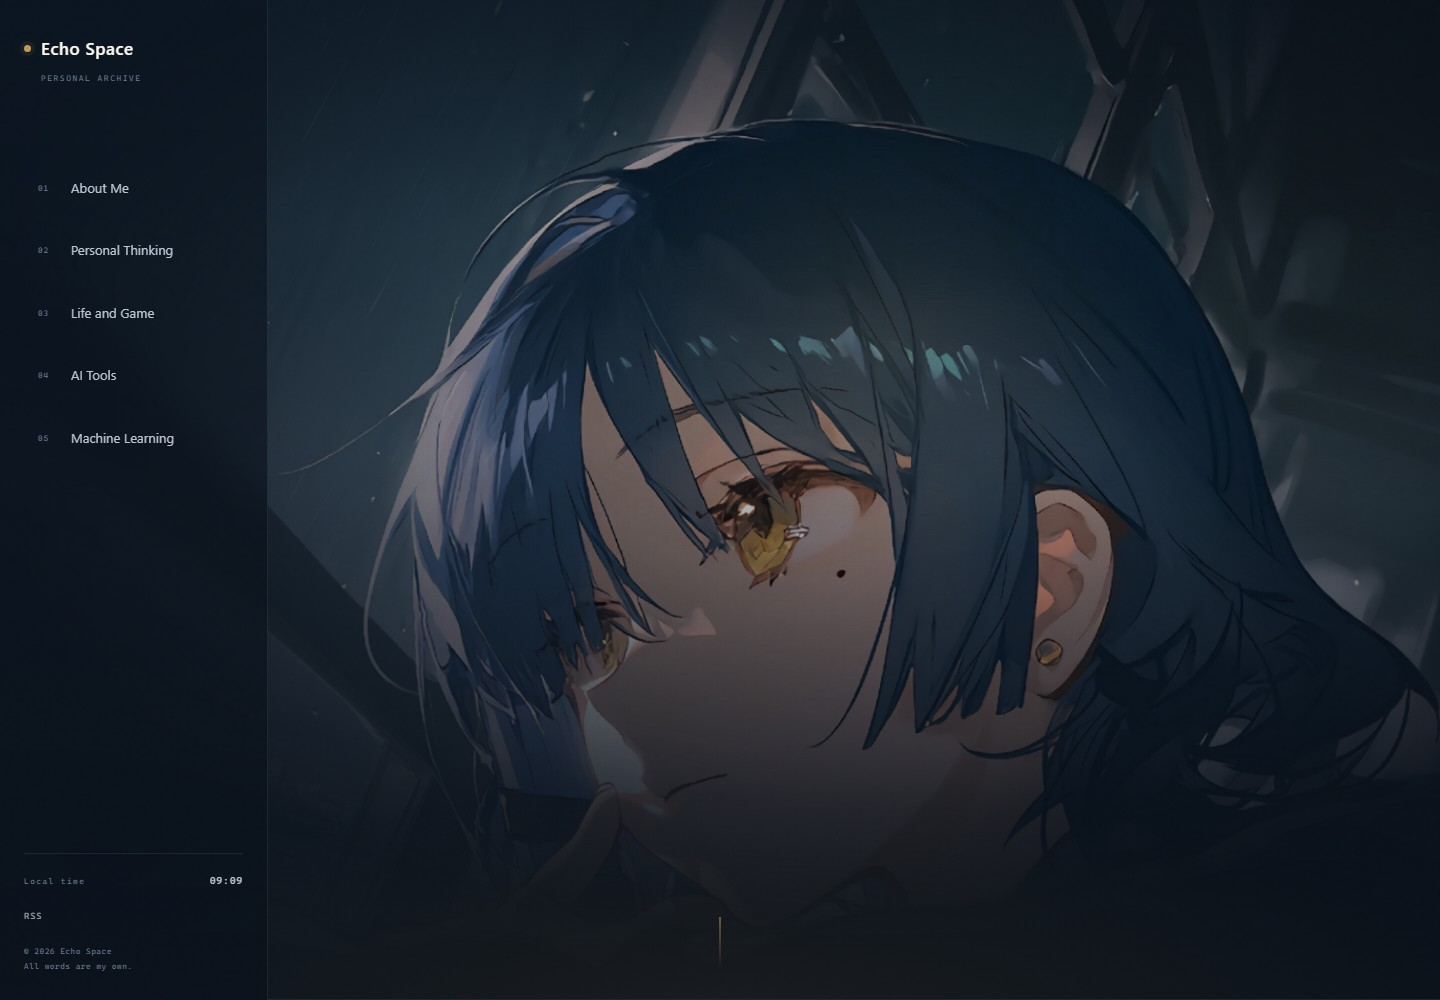
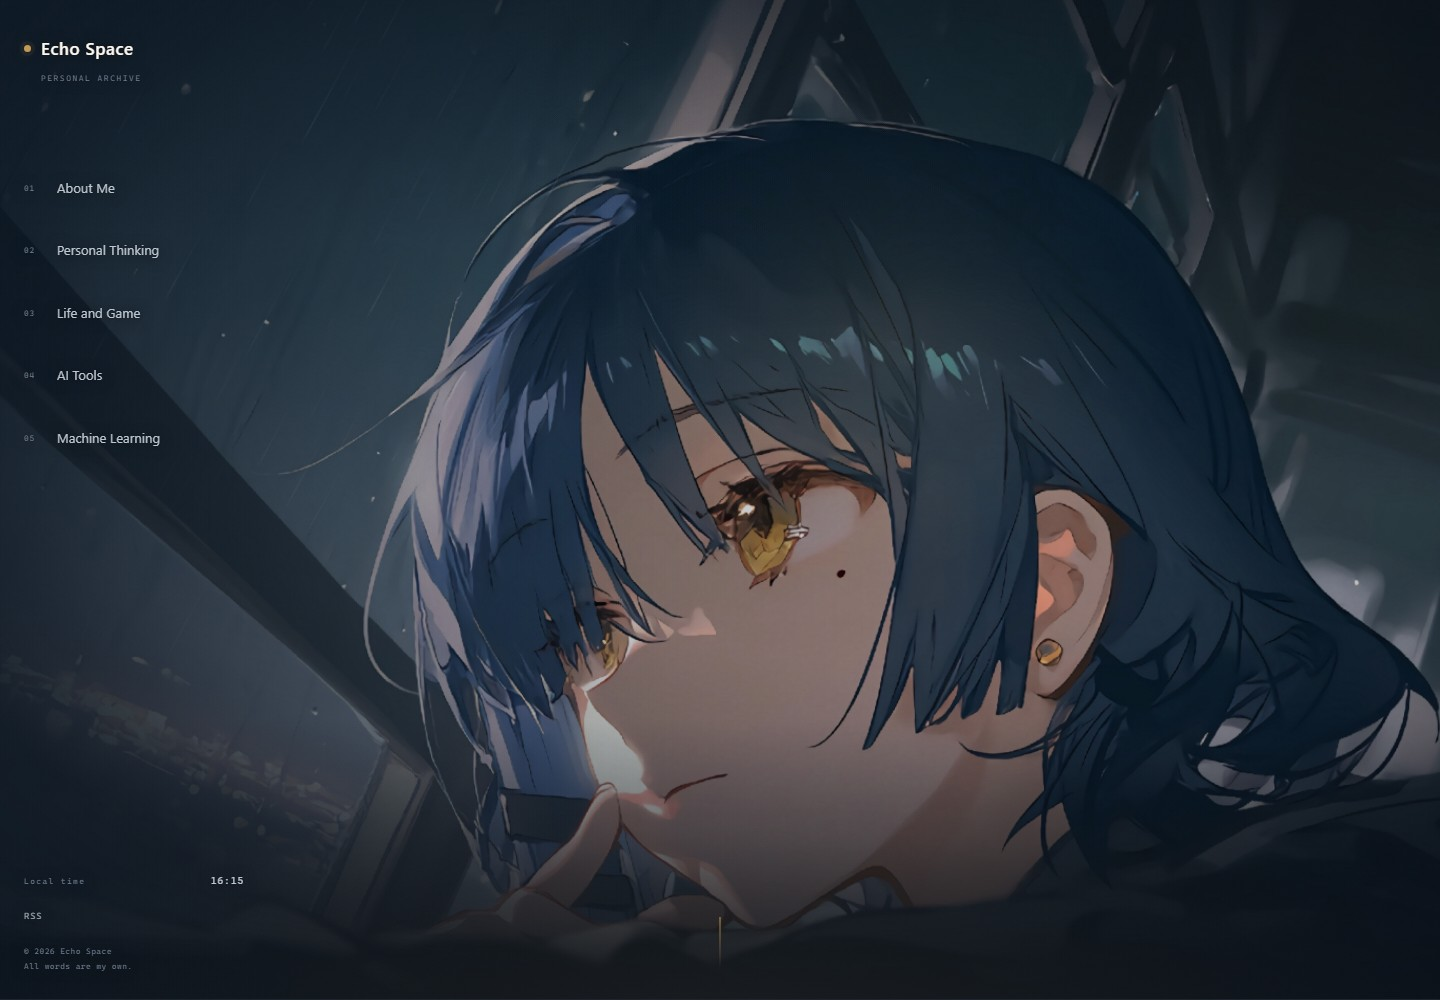
style: make sidebar transparent over hero

diff --git a/src/styles/global.css b/src/styles/global.css
@@ -359,15 +359,12 @@ a.tag:hover {
   padding: 34px 24px 26px;
   display: flex;
   flex-direction: column;
-  border-right: 1px solid var(--line);
-  background: linear-gradient(180deg, rgba(10, 17, 26, 0.5), rgba(10, 17, 26, 0.76));
-  -webkit-backdrop-filter: blur(18px) saturate(1.15);
-  backdrop-filter: blur(18px) saturate(1.15);
-  transition: background 0.45s var(--ease), transform 0.45s var(--ease-out);
-}
-
-.sidebar[data-scrolled="true"] {
-  background: rgba(10, 17, 26, 0.94);
+  border-right: 0;
+  background: transparent;
+  -webkit-backdrop-filter: none;
+  backdrop-filter: none;
+  text-shadow: 0 1px 14px rgba(0, 0, 0, 0.72), 0 0 2px rgba(0, 0, 0, 0.35);
+  transition: transform 0.45s var(--ease-out);
 }
 
 .brand {
@@ -418,22 +415,20 @@ a.tag:hover {
   display: grid;
   grid-template-columns: 27px 1fr;
   gap: 0 6px;
-  padding: 13px 8px 13px 13px;
-  border-left: 1px solid transparent;
+  padding: 13px 8px 13px 0;
+  border-left: 0;
   color: var(--ink-dim);
-  transition: color 0.25s var(--ease), border-color 0.25s var(--ease),
-    background 0.25s var(--ease);
+  transition: color 0.25s var(--ease), transform 0.3s var(--ease);
 }
 
 .nav__link:hover {
-  color: var(--ink);
-  border-left-color: var(--line-strong);
+  color: var(--ink-strong);
+  transform: translateX(3px);
 }
 
 .nav__link[aria-current="page"] {
   color: var(--ink-strong);
-  border-left-color: var(--accent);
-  background: linear-gradient(90deg, rgba(196, 154, 85, 0.12), transparent 78%);
+  background: transparent;
 }
 
 .nav__num {
@@ -487,8 +482,8 @@ a.tag:hover {
   align-items: baseline;
   justify-content: space-between;
   gap: 16px;
-  padding-top: 18px;
-  border-top: 1px solid var(--line);
+  padding-top: 0;
+  border-top: 0;
 }
 
 .sidebar__time-label {
@@ -2606,8 +2601,10 @@ body.is-editing .edit-wallpaper {
     width: min(84vw, 330px);
     padding: 30px 26px 24px;
     transform: translateX(-105%);
-    background: rgba(10, 17, 26, 0.97);
-    box-shadow: 30px 0 80px rgba(0, 0, 0, 0.5);
+    background: rgba(10, 17, 26, 0.72);
+    -webkit-backdrop-filter: blur(22px) saturate(1.1);
+    backdrop-filter: blur(22px) saturate(1.1);
+    box-shadow: 24px 0 60px rgba(0, 0, 0, 0.35);
   }
 
   body.nav-open .sidebar {

diff --git a/docs/PROJECT-STRUCTURE.md b/docs/PROJECT-STRUCTURE.md
@@ -194,7 +194,7 @@ cover: /uploads/cover.jpg
 | 文件 | 功能 |
 | --- | --- |
 | [Brand.astro](../src/components/Brand.astro) | 左上角站名，从 `site.json` 的 `name` 读取 |
-| [Sidebar.astro](../src/components/Sidebar.astro) | 左侧固定竖向菜单、当前项高亮、文章数、本地时间、社交/RSS/Edit、移动端顶栏和抽屉菜单 |
+| [Sidebar.astro](../src/components/Sidebar.astro) | 左侧固定竖向菜单、当前项高亮、文章数、本地时间、社交/RSS/Edit、移动端顶栏和抽屉菜单。桌面端是透明的，只保留文字覆盖在背景图上，没有底板和右边框 |
 | [Hero.astro](../src/components/Hero.astro) | 首屏：全屏图片、明暗渐变、唯一一行字（当前被注释）、打字容器 |
 | [EditDock.astro](../src/components/EditDock.astro) | 仅本地开发：编辑页面、保存/取消、更换图片、遮罩和焦点调整 |
 | [PostFeature.astro](../src/components/PostFeature.astro) | 首页精选文章卡片，第一张大卡片带淡金色 `01` |
